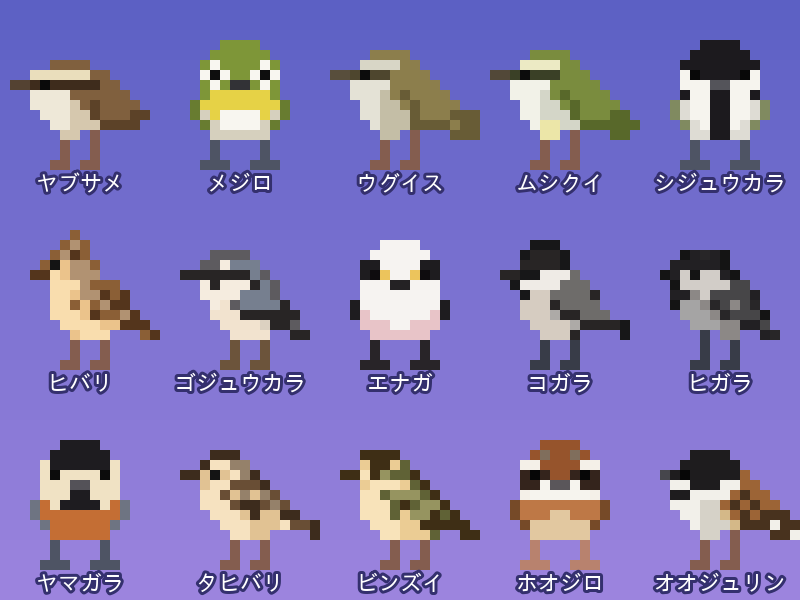
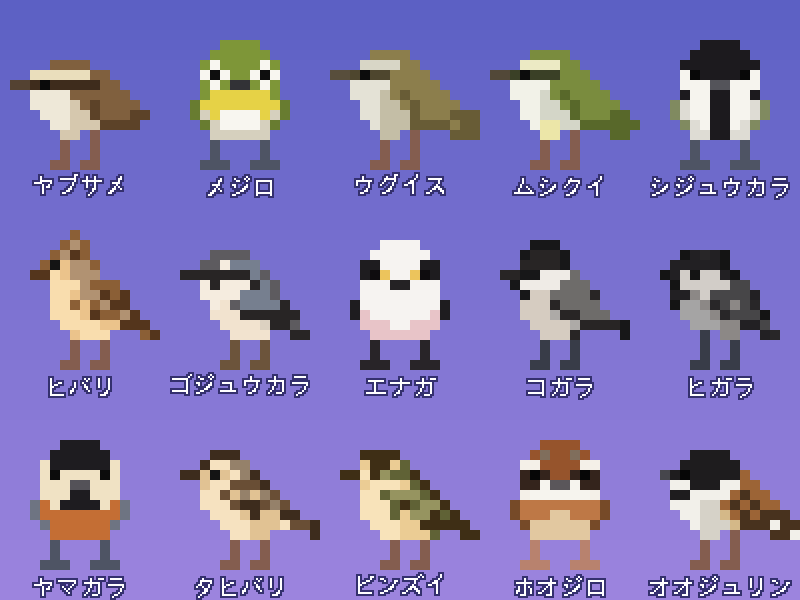
Pixel-style name labels (PNG + animated GIF)
Claude-Session: https://claude.ai/code/session_01CPQTgdf89udDfWNrjbtzt2

diff --git a/make_name_card.py b/make_name_card.py
@@ -1,15 +1,72 @@
-"""Still image of the sheet with each bird's name under it (for posting on X)."""
-from PIL import Image, ImageDraw, ImageFont
+"""Name labels in pixel-art style under each bird (for posting on X).
+
+Writes birds_names.png (still) and birds_names.gif (animated).
+Text is drawn with anti-aliasing off at 12px, given a 1-dot outline,
+then enlarged 2x with nearest-neighbour so it looks like dot lettering.
+"""
+from PIL import Image, ImageDraw, ImageFont, ImageFilter
 from make_birds import LAYOUT, SLOT_W, SLOT_H, CELL
 
-img = Image.open("preview.png").convert("RGB")
-d = ImageDraw.Draw(img)
-font = ImageFont.truetype("/usr/share/fonts/opentype/ipafont-gothic/ipag.ttf", 22)
-for r, row in enumerate(LAYOUT):
-    for c, name in enumerate(row):
-        cx = c * SLOT_W * CELL + SLOT_W * CELL // 2
-        cy = r * SLOT_H * CELL + 182
-        d.text((cx, cy), name, font=font, fill=(255, 255, 255), anchor="mm",
-               stroke_width=3, stroke_fill=(52, 48, 110))
-img.save("birds_names.png")
-print("wrote birds_names.png")
+FONT = "/usr/share/fonts/opentype/ipafont-gothic/ipag.ttf"
+SIZE = 12          # glyph size in text dots
+SCALE = 2          # 1 text dot = 2px
+TEXT = (255, 255, 255)
+EDGE = (52, 48, 110)
+LABEL_CY = 186     # vertical centre of the label inside each 200px slot
+
+
+def label(name):
+    font = ImageFont.truetype(FONT, SIZE)
+    w = int(font.getlength(name)) + 4
+    h = SIZE + 4
+    mask = Image.new("L", (w, h), 0)
+    d = ImageDraw.Draw(mask)
+    d.fontmode = "1"
+    d.text((2, 2), name, font=font, fill=255)
+    edge = mask.filter(ImageFilter.MaxFilter(3))
+    img = Image.new("RGBA", (w, h), (0, 0, 0, 0))
+    img.paste(EDGE + (255,), (0, 0), edge)
+    img.paste(TEXT + (255,), (0, 0), mask)
+    return img.resize((w * SCALE, h * SCALE), Image.NEAREST)
+
+
+LABELS = {n: label(n) for row in LAYOUT for n in row}
+
+
+def overlay(frame):
+    f = frame.convert("RGBA")
+    for r, row in enumerate(LAYOUT):
+        for c, name in enumerate(row):
+            lb = LABELS[name]
+            cx = c * SLOT_W * CELL + SLOT_W * CELL // 2
+            cy = r * SLOT_H * CELL + LABEL_CY
+            f.alpha_composite(lb, (cx - lb.width // 2, cy - lb.height // 2))
+    return f.convert("RGB")
+
+
+def main():
+    overlay(Image.open("preview.png")).save("birds_names.png")
+
+    gif = Image.open("birds.gif")
+    frames, durs = [], []
+    for i in range(gif.n_frames):
+        gif.seek(i)
+        frames.append(overlay(gif.convert("RGB")))
+        durs.append(gif.info.get("duration", 90))
+    cols = sorted({c for f in frames for _, c in f.getcolors(1 << 16)})
+    assert len(cols) <= 256, len(cols)
+    index = {c: i for i, c in enumerate(cols)}
+    palette = [v for c in cols for v in c] + [0] * (768 - 3 * len(cols))
+    out = []
+    for f in frames:
+        p = Image.new("P", f.size)
+        p.putpalette(palette)
+        p.putdata([index[c] for c in f.getdata()])
+        out.append(p)
+    out[0].save("birds_names.gif", save_all=True, append_images=out[1:],
+                duration=durs, loop=0, disposal=1)
+    print("wrote birds_names.png, birds_names.gif")
+
+
+if __name__ == "__main__":
+    main()
